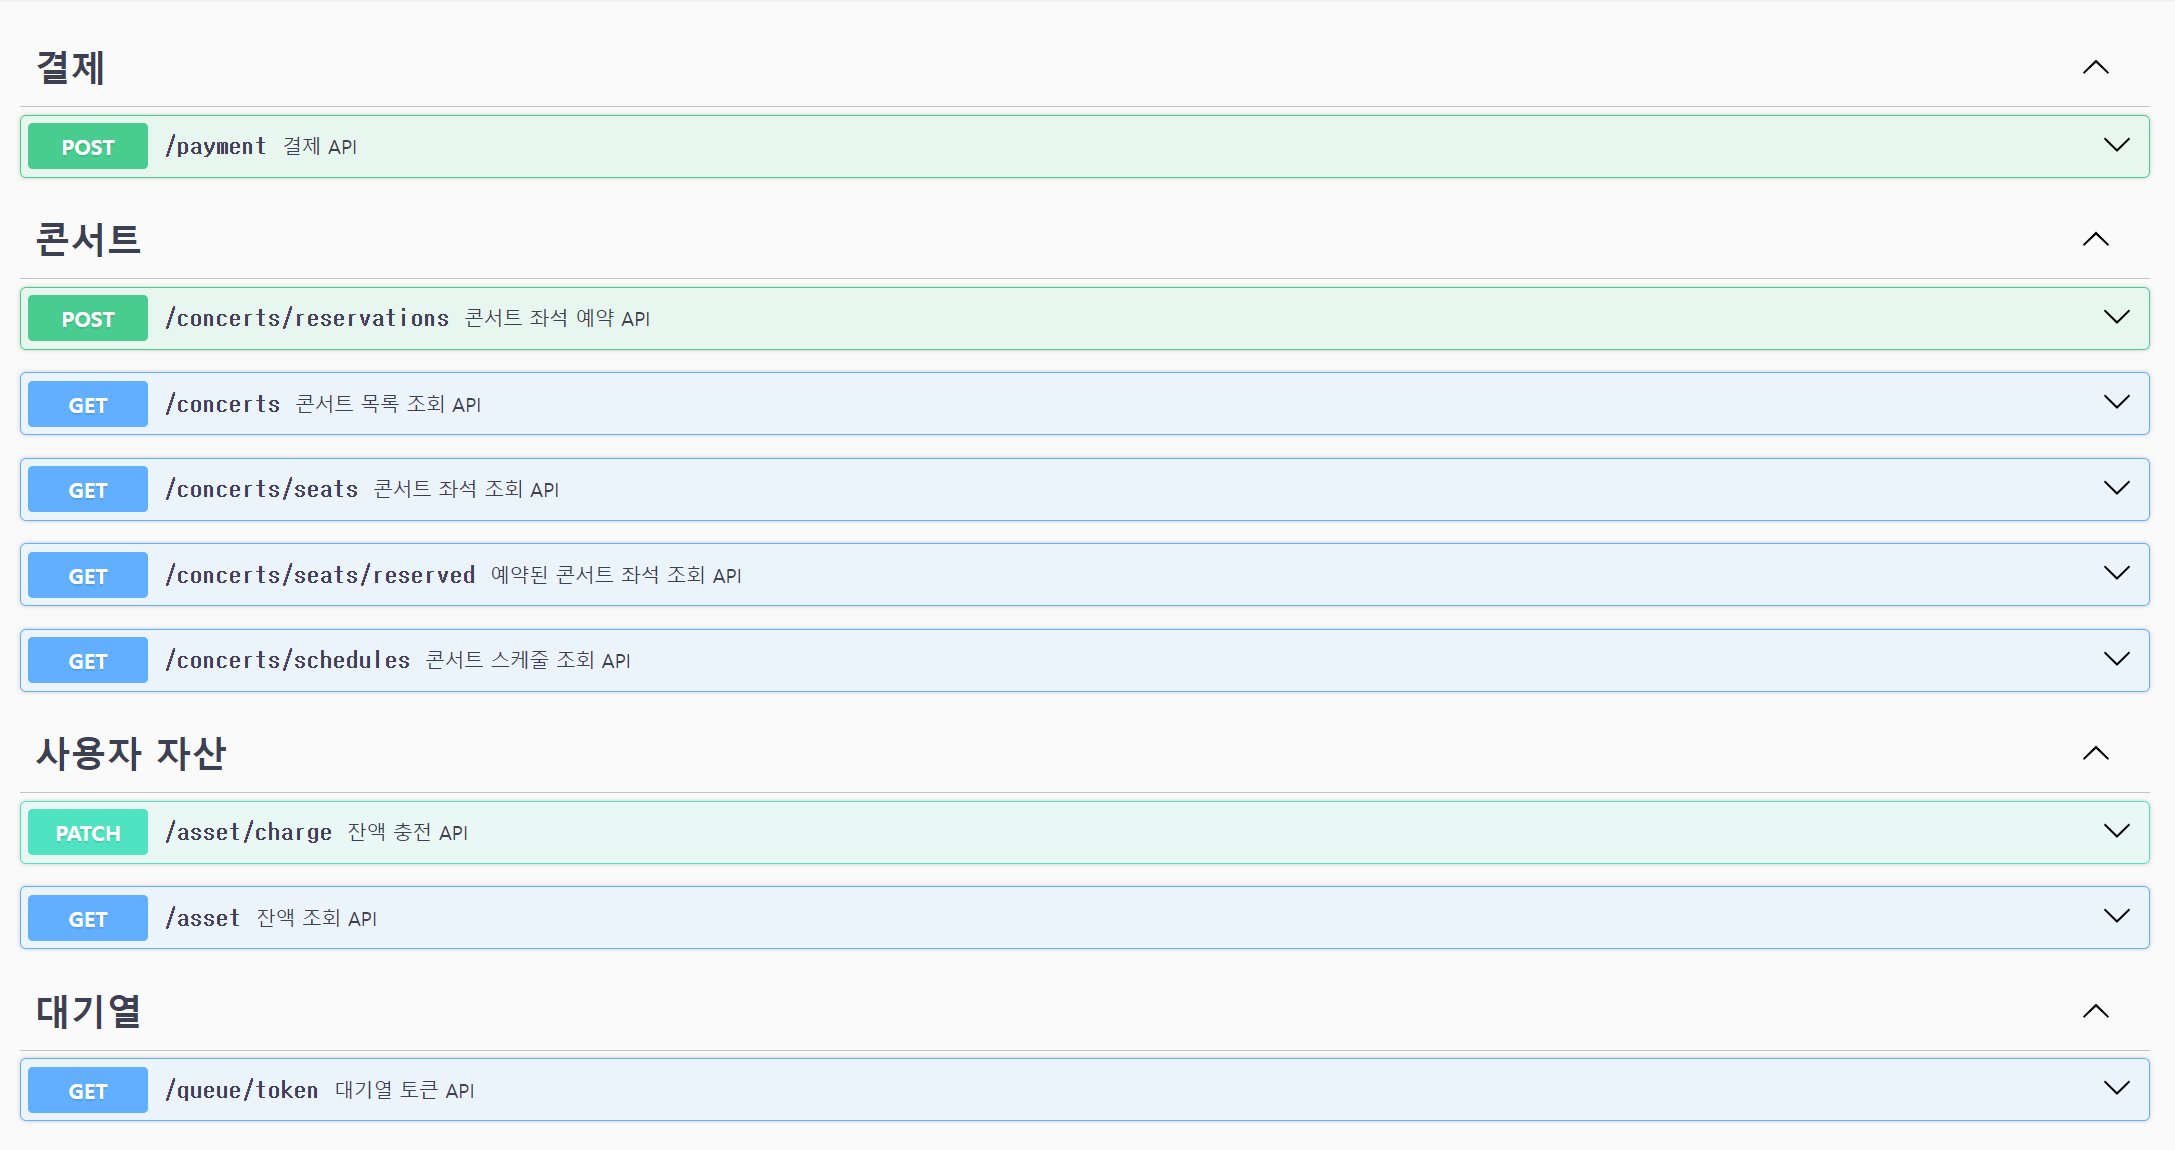
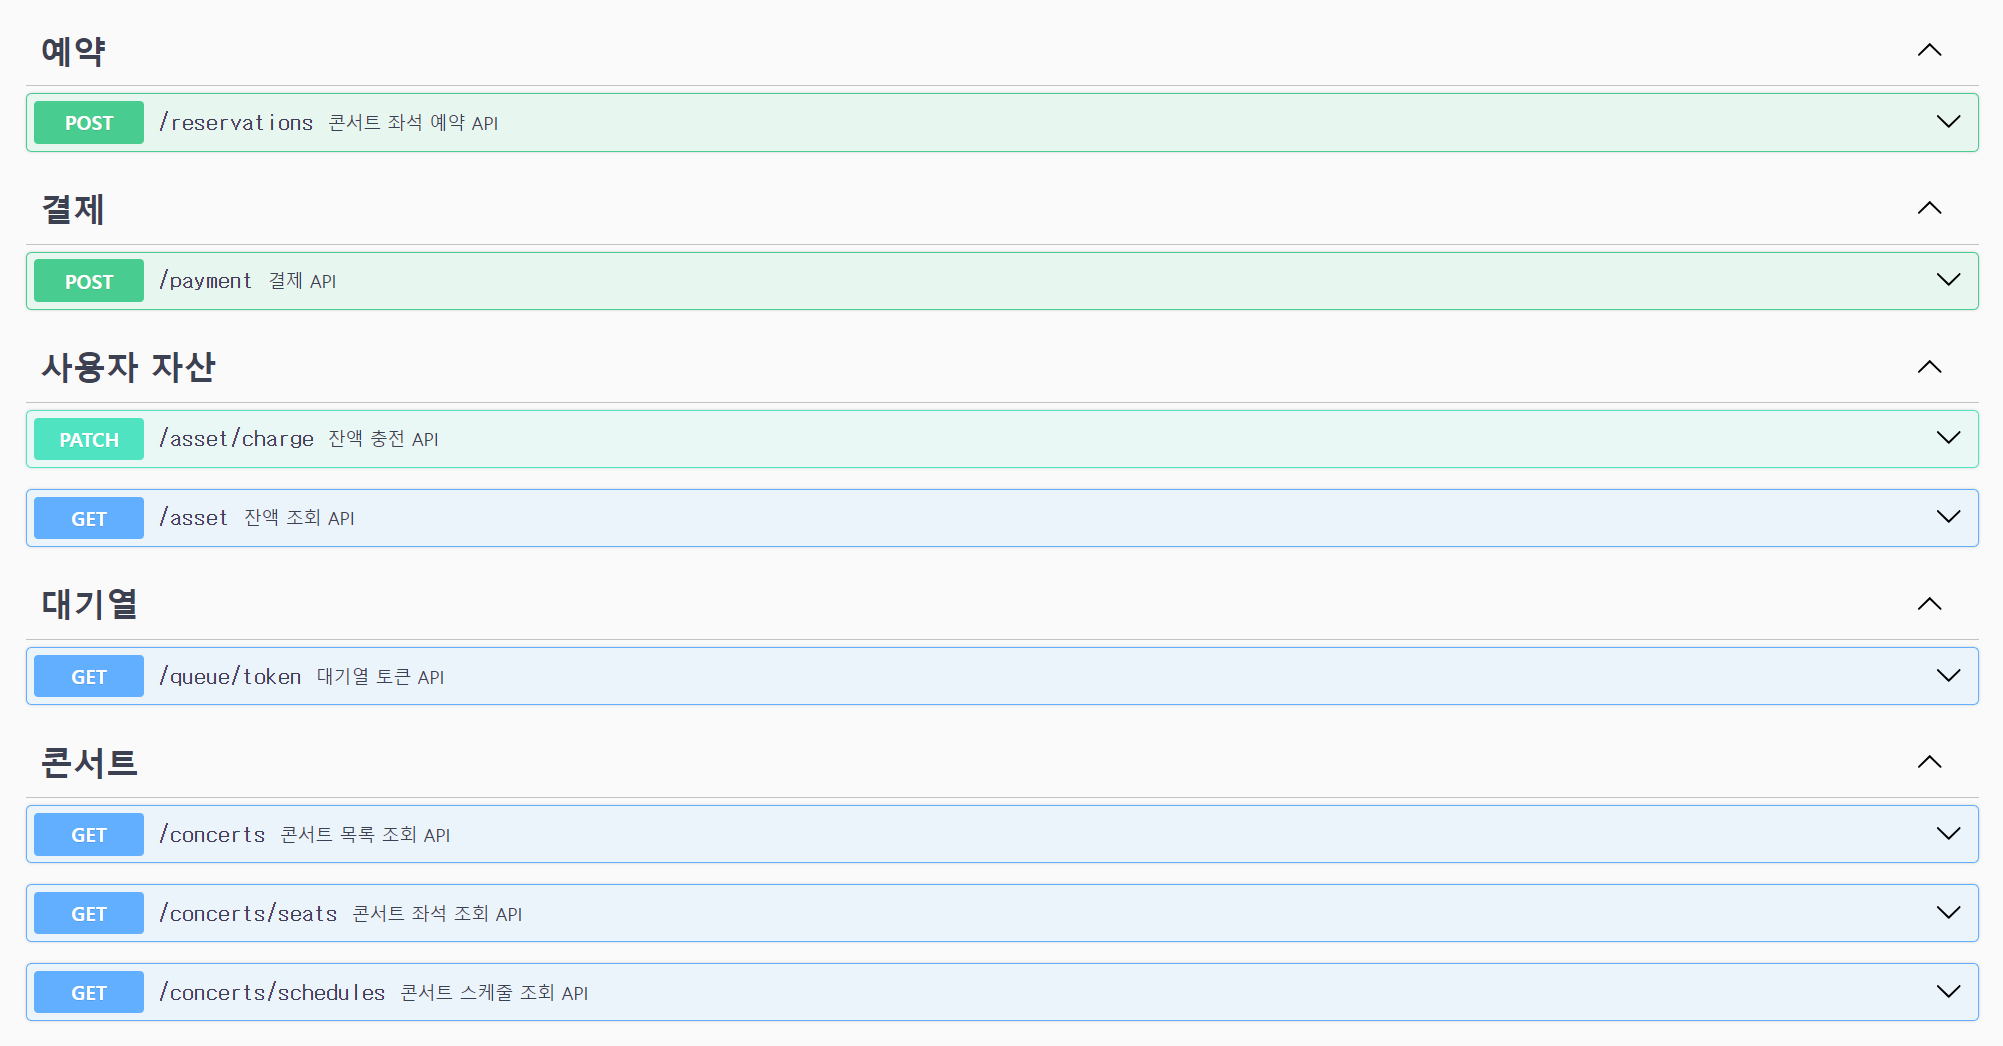
test: Reservation - 좌석 예약 상태 관련 Test 코드 추가 & README 수정

diff --git a/src/test/java/io/hhplus/concert/domain/concert/ConcertServiceUnitTest.java b/src/test/java/io/hhplus/concert/domain/concert/ConcertServiceUnitTest.java
@@ -7,8 +7,7 @@ import java.util.Date;
 import java.util.List;
 
 import static org.assertj.core.api.Assertions.assertThat;
-import static org.mockito.Mockito.mock;
-import static org.mockito.Mockito.when;
+import static org.mockito.Mockito.*;
 
 public class ConcertServiceUnitTest {
     private final ConcertService concertService;
@@ -66,5 +65,41 @@ public class ConcertServiceUnitTest {
         //then
         assertThat(resConcertSeats).isNotNull();
         assertThat(resConcertSeats).isEqualTo(expectedConcertSeats);
+    }
+
+    @Test
+    @DisplayName("좌석을 예약하면 좌석의 reserved 값이 true로 변경")
+    public void testReserveConcertSeats() {
+        //given
+        var concertSeats = List.of(new ConcertSeat(0L, 0L, "R1", 0L, false));
+
+        //when
+        concertService.reserveConcertSeats(concertSeats);
+
+        //then
+        verify(mockConcertRepository).saveConcertSeats(argThat(seats -> {
+            assertThat(seats).isNotNull();
+            seats.forEach(seat -> assertThat(seat.getReserved()).isTrue());
+            return true;
+        }));
+    }
+
+    @Test
+    @DisplayName("좌석 예약을 만료시키면 좌석 reserved 값이 false로 변경")
+    public void testExpireConcertSeats() {
+        //given
+        var seatIds = List.of(0L);
+        when(mockConcertRepository.getConcertSeatsByIdIn(seatIds))
+                .thenReturn(List.of(new ConcertSeat(0L, 0L, "R1", 0L, true)));
+
+        //when
+        concertService.expireConcertSeats(seatIds);
+
+        //then
+        verify(mockConcertRepository).saveConcertSeats(argThat(seats -> {
+            assertThat(seats).isNotNull();
+            seats.forEach(seat -> assertThat(seat.getReserved()).isFalse());
+            return true;
+        }));
     }
 }

diff --git a/src/test/java/io/hhplus/concert/domain/reservation/ReservationServiceUnitTest.java b/src/test/java/io/hhplus/concert/domain/reservation/ReservationServiceUnitTest.java
@@ -1,9 +1,7 @@
-package io.hhplus.concert.domain.concert;
+package io.hhplus.concert.domain.reservation;
 
-import io.hhplus.concert.domain.reservation.Reservation;
-import io.hhplus.concert.domain.reservation.ReservationRepository;
-import io.hhplus.concert.domain.reservation.ReservationService;
-import io.hhplus.concert.domain.reservation.ReservationTicket;
+import io.hhplus.concert.domain.concert.ConcertRepository;
+import io.hhplus.concert.domain.concert.ConcertSeat;
 import io.hhplus.concert.support.exception.ExceptionCode;
 import org.assertj.core.api.ThrowableAssert;
 import org.junit.jupiter.api.DisplayName;
@@ -15,8 +13,7 @@ import java.util.List;
 import static org.assertj.core.api.Assertions.assertThat;
 import static org.assertj.core.api.Assertions.assertThatThrownBy;
 import static org.mockito.ArgumentMatchers.any;
-import static org.mockito.Mockito.mock;
-import static org.mockito.Mockito.when;
+import static org.mockito.Mockito.*;
 
 public class ReservationServiceUnitTest {
     ReservationService reservationService;
@@ -81,4 +78,22 @@ public class ReservationServiceUnitTest {
         //then
         assertThatThrownBy(reservationRes).hasMessage(ExceptionCode.SEAT_ALREADY_RESERVED.getMessage());
     }
+
+    @Test
+    @DisplayName("예약이 완료되면 CompletedAt 값이 설정됨")
+    void testReservationCompletion() {
+        //given
+        Reservation reservation = new Reservation(0L, 0L, new Date(), null, List.of());
+
+        //when
+        reservationService.completeReservation(reservation);
+
+        //then
+        verify(mockReservationRepository).saveReservation(argThat(reservationRes -> {
+            assertThat(reservationRes.getCompletedAt()).isNotNull();
+            return true;
+        }));
+    }
+
+
 }

diff --git a/src/test/java/io/hhplus/concert/domain/reservation/ReservationDomainUnitTest.java b/src/test/java/io/hhplus/concert/domain/reservation/ReservationDomainUnitTest.java
@@ -1,6 +1,6 @@
-package io.hhplus.concert.domain.concert;
+package io.hhplus.concert.domain.reservation;
 
-import io.hhplus.concert.domain.reservation.Reservation;
+import io.hhplus.concert.domain.concert.ConcertSeat;
 import io.hhplus.concert.support.exception.ExceptionCode;
 import org.assertj.core.api.ThrowableAssert;
 import org.junit.jupiter.api.DisplayName;
@@ -13,6 +13,7 @@ import static org.assertj.core.api.Assertions.*;
 
 public class ReservationDomainUnitTest {
     @Test
+    @DisplayName("Ticket 전체 금액 조회 테스트")
     void testTotalPrice() {
         //given
         long userId = 0;
@@ -30,6 +31,7 @@ public class ReservationDomainUnitTest {
     }
 
     @Test
+    @DisplayName("만료 일자 조회 테스트")
     void testExpireDate() {
         //given
         long userId = 0;
@@ -47,6 +49,7 @@ public class ReservationDomainUnitTest {
     }
 
     @Test
+    @DisplayName("예약 만료처리 테스트")
     void testCompleted() {
         //given
         long userId = 0;

diff --git a/src/main/java/io/hhplus/concert/domain/concert/ConcertService.java b/src/main/java/io/hhplus/concert/domain/concert/ConcertService.java
@@ -27,14 +27,14 @@ public class ConcertService {
         return concertRepository.getConcertSeatsByIdIn(seatIds);
     }
 
-    public List<ConcertSeat> reserveConcertSeats(List<ConcertSeat> concertSeats) {
+    public void reserveConcertSeats(List<ConcertSeat> concertSeats) {
         concertSeats.forEach(ConcertSeat::reserved);
-        return concertRepository.saveConcertSeats(concertSeats);
+        concertRepository.saveConcertSeats(concertSeats);
     }
 
-    public List<ConcertSeat> expireConcertSeats(List<Long> seatIds) {
+    public void expireConcertSeats(List<Long> seatIds) {
         var concertSeats = concertRepository.getConcertSeatsByIdIn(seatIds);
         concertSeats.forEach(ConcertSeat::reservationExpired);
-        return concertRepository.saveConcertSeats(concertSeats);
+        concertRepository.saveConcertSeats(concertSeats);
     }
 }

diff --git a/src/main/java/io/hhplus/concert/interfaces/presentation/reservation/ReservationController.java b/src/main/java/io/hhplus/concert/interfaces/presentation/reservation/ReservationController.java
@@ -7,11 +7,12 @@ import io.swagger.v3.oas.annotations.Operation;
 import io.swagger.v3.oas.annotations.Parameter;
 import io.swagger.v3.oas.annotations.Parameters;
 import io.swagger.v3.oas.annotations.enums.ParameterIn;
+import io.swagger.v3.oas.annotations.tags.Tag;
 import jakarta.servlet.http.HttpServletRequest;
 import org.springframework.web.bind.annotation.PostMapping;
 import org.springframework.web.bind.annotation.RequestBody;
 import org.springframework.web.bind.annotation.RestController;
-
+@Tag(name = "예약")
 @RestController
 public class ReservationController {
     private final ReservationFacade reservationFacade;

diff --git a/README.md b/README.md
@@ -17,6 +17,8 @@
   - 토큰 만료/활성화 (Scheduler)
 #### 콘서트
   - ~~콘서트/스케줄/좌석 조회~~ > 동시성 이슈 X
+  - 좌석 예약 만료 (Scheduler)
+### 예약
   - 콘서트 좌석 예약
 #### 결제
   - 결제
@@ -40,6 +42,13 @@
    - 비지니스 로직 상 Lost Update가 발생해도 문제가 없음
    - 모두 같은 결과를 예상하기 때문에
 
+#### 좌석 예약 만료/활성화
+- Transaction 범위 : 최소 범위 (JPA)
+- 동시성 문제: 동시에 조회 -> Update로 인해 Lost Update 발생
+- 동시성 해결: 조치 X
+- 이유:
+  - 비지니스 로직 상 Lost Update가 발생해도 문제가 없음
+  - 모두 같은 결과를 예상하기 때문에
 
 #### 콘서트 좌석 예약
 - Transaction 범위: Service 함수
@@ -48,7 +57,6 @@
 - 이유:
   - 동시성 이슈가 발생했을 때 대기할 필요 없음
   - 분산락: 락 획득 시도 후 실패시 DB Connection 없이 종료 가능
-  - 낙관락 사용 불가: DB Record 를 Update 하지 않아 낙관락 사용 불가
 
 #### 결제
 - Transaction 범위: Facade 함수
